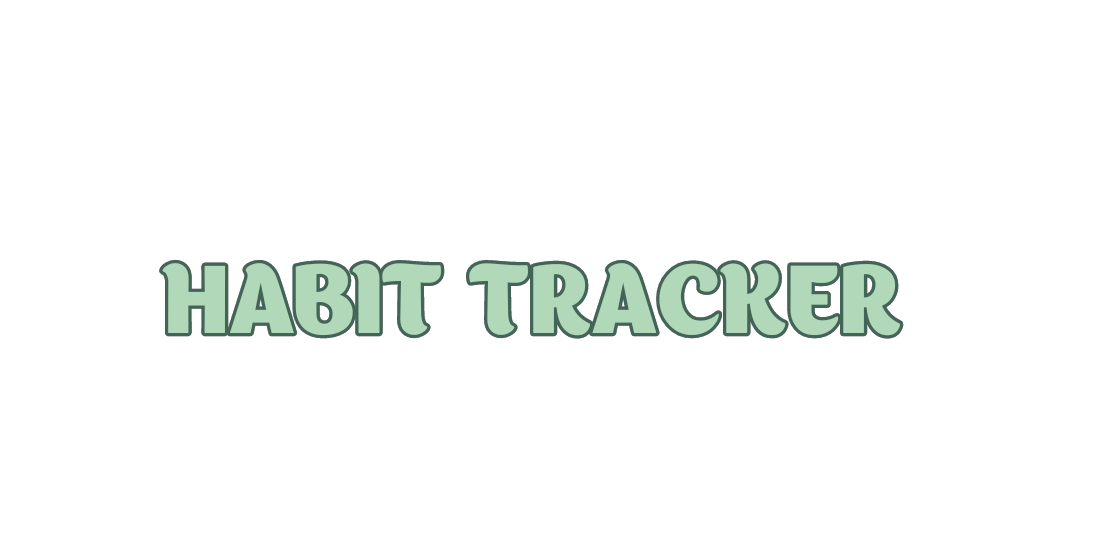
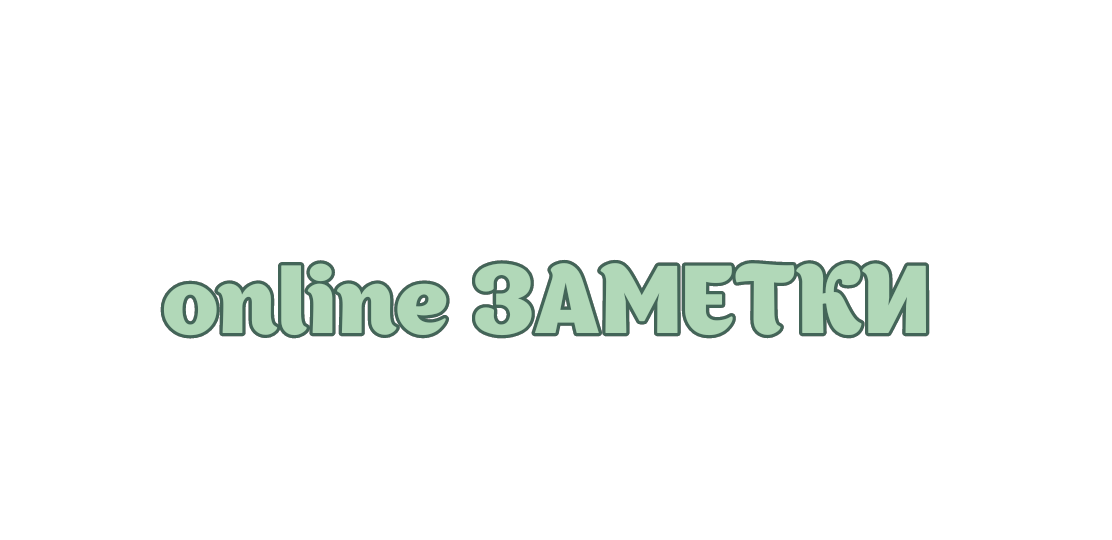
sec

Changed region(s): [[0.1223, 0.4741, 0.8561, 0.6519]]

diff --git a/templates/homepage.html b/templates/homepage.html
@@ -1,12 +1,11 @@
 {% extends 'base.html' %}
 
 {% block title %}
-Habit tracker
+Notes
 {% endblock %}
 
 {% block body %}
 <div class="container mt-5">
-    <!-- Вывод flash-сообщений -->
     {% with messages = get_flashed_messages(with_categories=true) %}
     {% if messages %}
         {% for category, message in messages %}
@@ -18,29 +17,29 @@ Habit tracker
     {% endif %}
 {% endwith %}
 
-    <!-- Список привычек -->
     {% if habits %}
         <div class="list-group mb-5">
-            <h2>Your habits:</h2>
+            <h2>Your notes:</h2>
             {% for habit in habits %}
                 <div class="list-group-item d-flex justify-content-between align-items-center">
-                    {{ habit }}
-                    <button class="btn btn-sm btn-outline-danger">Delete</button>
+                    {{ habit[1] }}
+                    <form action="{{ url_for('delete_habit', habit_id=habit[0]) }}" method="POST" style="display: inline;">
+                        <button type="submit" class="btn btn-sm btn-outline-danger">Delete</button>
+                    </form>
                 </div>
             {% endfor %}
         </div>
     {% else %}
-        <div class="alert alert-info">You don't have the habit</div>
+        <div class="alert alert-info">У тебя нет ни одной записи :(</div>
     {% endif %}
 </div>
 
-<!-- Форма для добавления привычки -->
 <div class="fixed-bottom bg-light py-3 border-top">
     <div class="container">
         <form action="{{ url_for('homepage') }}" method="POST" class="row g-3">
             <div class="col-md-8">
                 <input type="text" class="form-control" name="habit"
-                       placeholder="Pick up new habit..." required maxlength="80">
+                       placeholder="Пишите коротко, по делу..." required maxlength="80">
             </div>
             <div class="col-md-4">
                 <button type="submit" class="btn btn-success w-100">Add</button>

diff --git a/templates/base.html b/templates/base.html
@@ -1,5 +1,5 @@
 <!DOCTYPE html>
-<html lang="en">
+<html lang="ru">
 <head>
     <meta charset="UTF-8">
     <link href="https://cdn.jsdelivr.net/npm/bootstrap@5.3.6/dist/css/bootstrap.min.css" rel="stylesheet" integrity="sha384-4Q6Gf2aSP4eDXB8Miphtr37CMZZQ5oXLH2yaXMJ2w8e2ZtHTl7GptT4jmndRuHDT" crossorigin="anonymous">
@@ -26,6 +26,6 @@
 </header>
     <h1>{% block body %}{% endblock %}</h1>
 </div>
-<script src="https://cdn.jsdelivr.net/npm/bootstrap@5.3.6/dist/js/bootstrap.bundle.min.js"></script>
+
 </body>
 </html>

diff --git a/templates/about.html b/templates/about.html
@@ -5,5 +5,6 @@ About
 {% endblock %}
 
 {% block body %}
-<h1>About us !!</h1>
+<h2>I know everything about uuuuuu, u know everything about meeee,</h2>
+<h2>We know everything about usss !!</h2>
 {% endblock %}

diff --git a/main (3).py b/main (3).py
@@ -13,7 +13,7 @@ app.config['SECRET_KEY'] = 'yandexlyceum_secret_key'
 db_session.global_init("db/blogs.db")
 
 db_path = Path('instance') / 'habits.db'
-db_path.parent.mkdir(exist_ok=True)  # Создаем папку instance если её нет
+db_path.parent.mkdir(exist_ok=True)
 conn = sqlite3.connect(db_path)
 cursor = conn.cursor()
 cursor.execute('''
@@ -75,7 +75,7 @@ def login():
         return render_template('register.html', title='Register', form=form)
     return redirect(url_for('homepage'))
 
-@app.route("/habittracker")
+@app.route("/notes")
 @app.route("/", methods=['GET', 'POST'])
 def homepage():
     if request.method == 'POST':
@@ -86,18 +86,16 @@ def homepage():
                 cursor = conn.cursor()
                 cursor.execute('INSERT INTO habits (name) VALUES (?)', (new_habit,))
                 conn.commit()
-                flash('Привычка успешно добавлена!', 'success')
+                flash('Запись успешно добавлена!', 'success')
             except Exception as e:
                 flash(f'Ошибка: {str(e)}', 'danger')
             return redirect(url_for('homepage'))
-
-    # Получаем все привычки для отображения
     habits = []
     try:
         conn = sqlite3.connect('instance/habits.db')
         cursor = conn.cursor()
-        cursor.execute('SELECT name FROM habits ORDER BY created_at DESC')
-        habits = [row[0] for row in cursor.fetchall()]
+        cursor.execute('SELECT id, name FROM habits ORDER BY created_at DESC')
+        habits = cursor.fetchall()
     except:
         habits = []
     return render_template("homepage.html", habits=habits)
@@ -105,6 +103,18 @@ def homepage():
 @app.route("/about")
 def about():
     return render_template("about.html")
+
+@app.route("/delete_habit/<int:habit_id>", methods=['POST'])
+def delete_habit(habit_id):
+    try:
+        conn = sqlite3.connect('instance/habits.db')
+        cursor = conn.cursor()
+        cursor.execute('DELETE FROM habits WHERE id = ?', (habit_id,))
+        conn.commit()
+        flash('Запись успешно удалена!', 'success')
+    except Exception as e:
+        flash(f'Ошибка при удалении записи: {str(e)}', 'danger')
+    return redirect(url_for('homepage'))
 
 @app.route('/logout')
 @login_required
